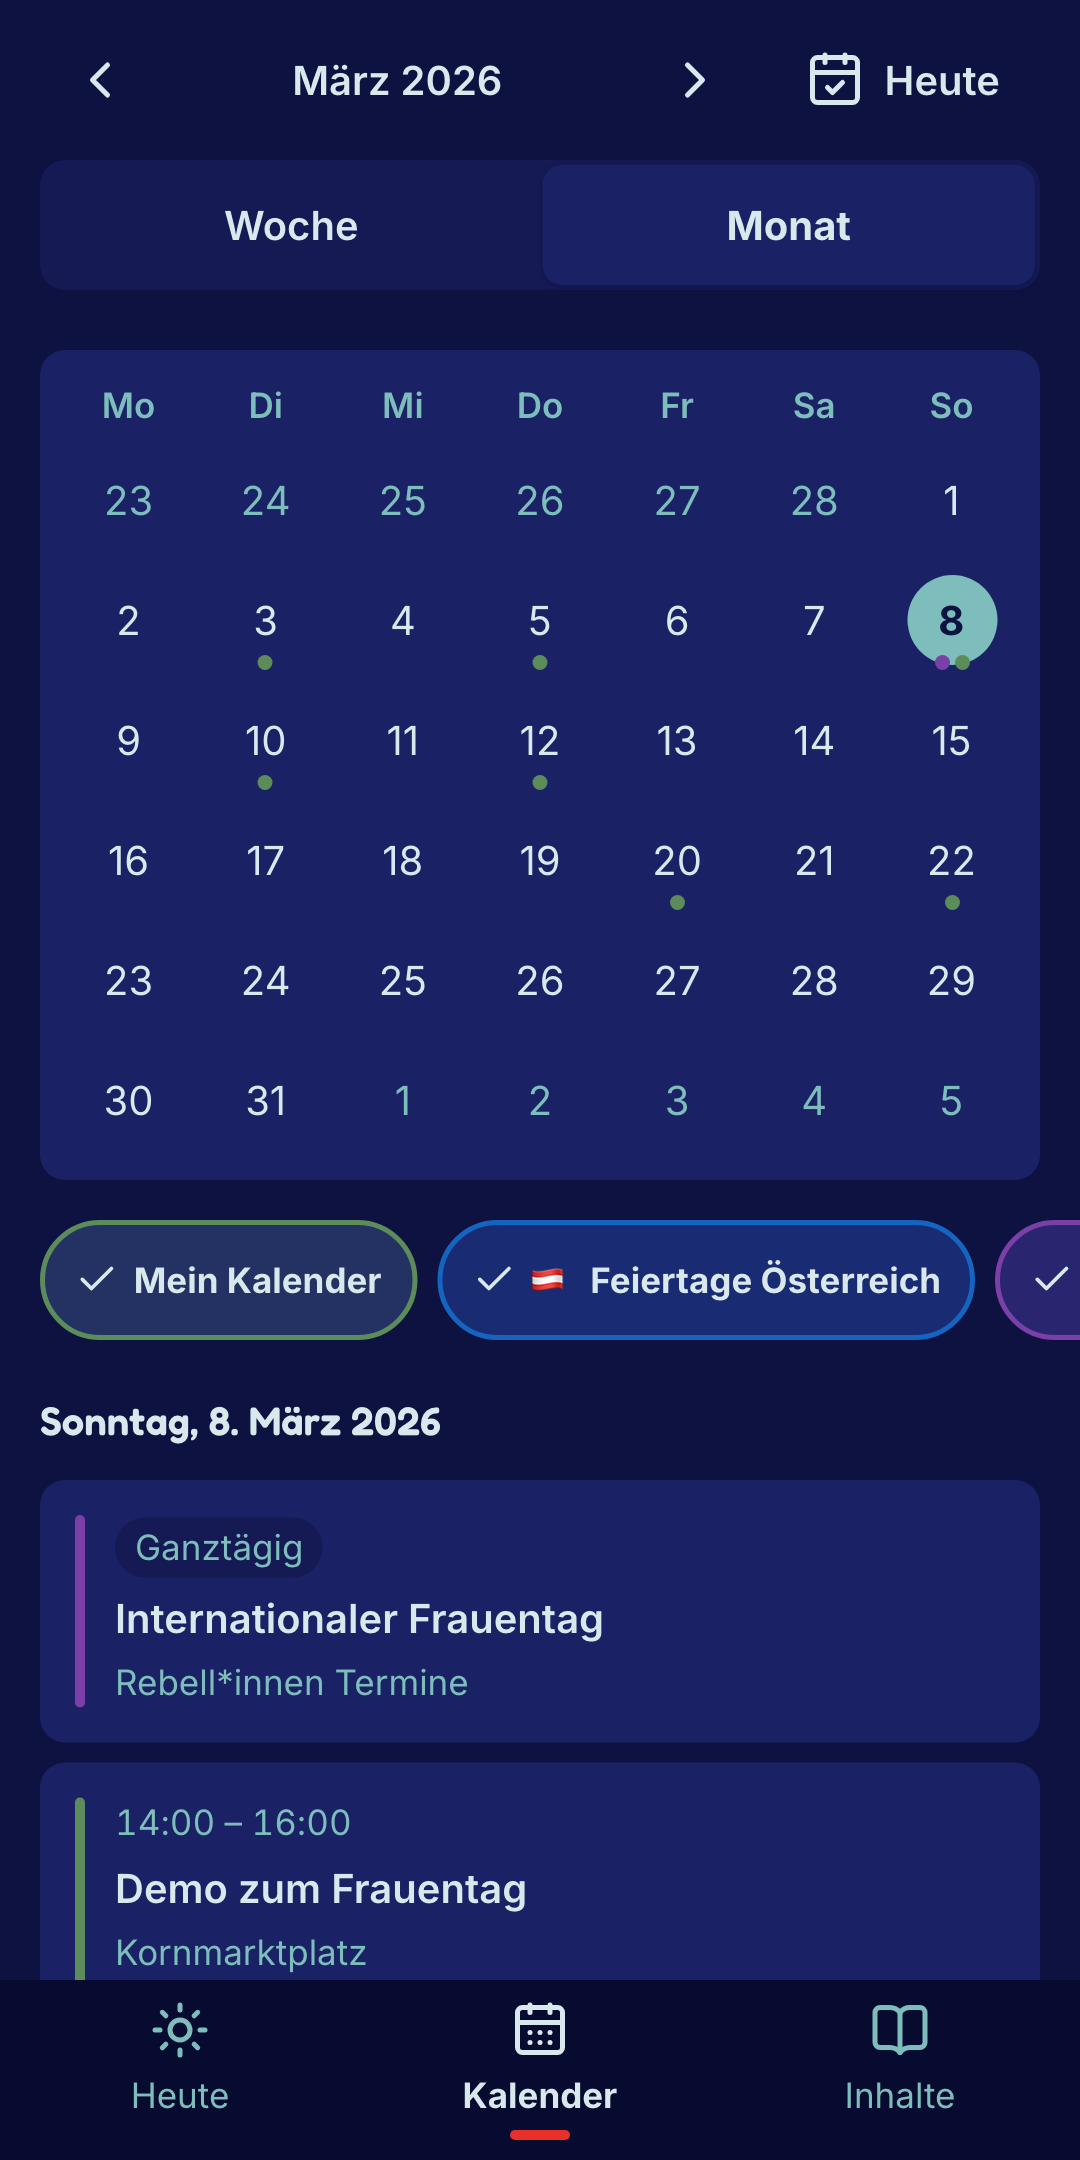
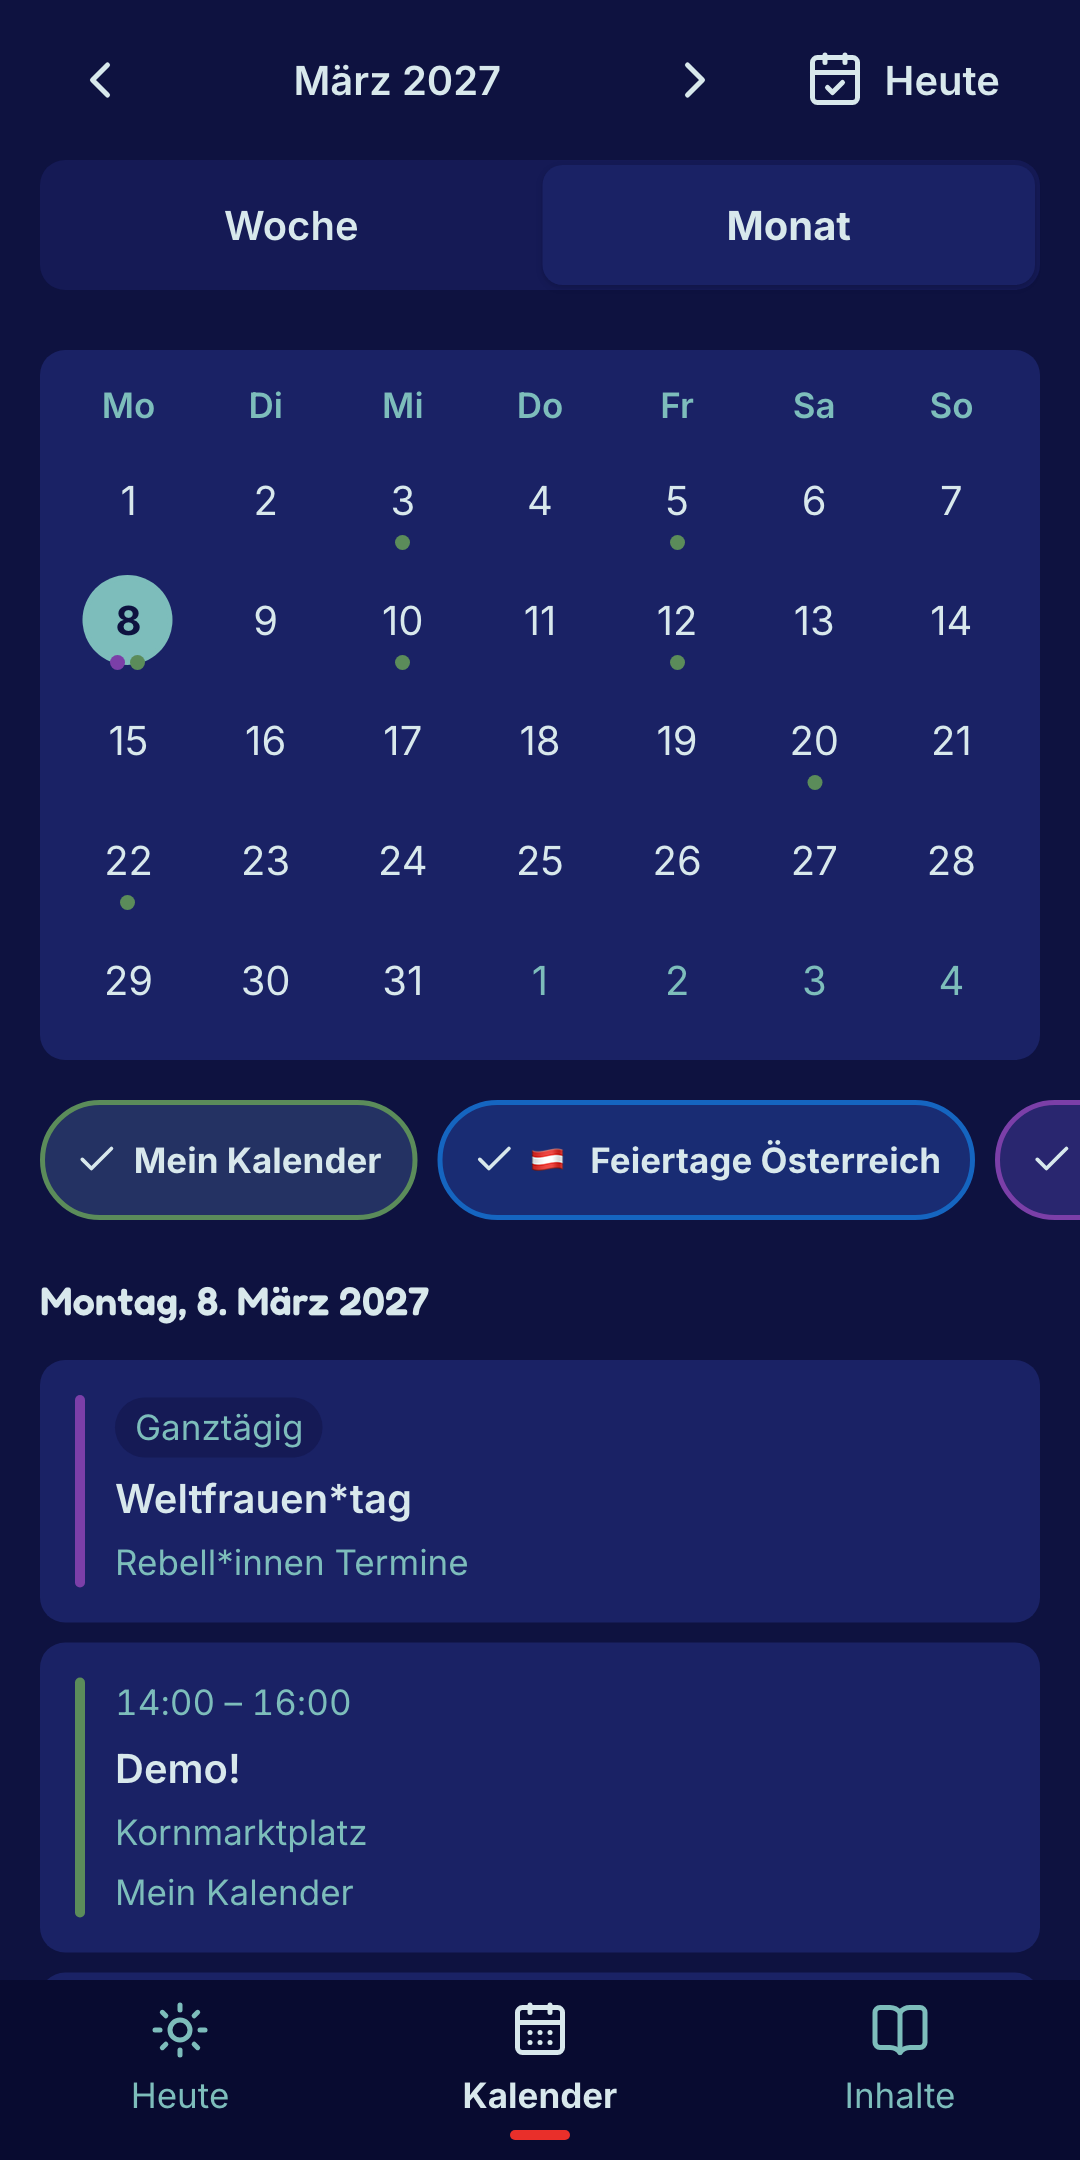
chore(store): date the screenshots 2027 and rename the demo appointments
Verein Amazone asked for screenshots that do not lie in the past already,
and for the appointments to read „Weltfrauen*tag“ and „Demo!“. They also
show the red tab indicator now.

diff --git a/apps/app/scripts/store-screenshots/store-screenshots.spec.ts b/apps/app/scripts/store-screenshots/store-screenshots.spec.ts
@@ -14,7 +14,7 @@ import {
  * assets, rendered from the production web build (see
  * playwright.store.config.ts and docs/store-listing.md).
  *
- * Everything that would make two runs differ is pinned: the clock (a fixed Sunday, Weltfrauentag,
+ * Everything that would make two runs differ is pinned: the clock (a fixed day, Weltfrauentag,
  * so Heute's impulse is always the same one), the zone and locale, the demo data, and the fonts,
  * which the app bundles. Run it, look at every PNG, and commit them.
  */
@@ -46,9 +46,9 @@ const PLAY_IMAGES = join(ROOT, 'fastlane', 'metadata', 'android', 'de-DE', 'imag
  */
 const APP_STORE_ASSETS = join(ROOT, 'fastlane', 'app-store-assets');
 
-/** Sunday, 8 March 2026, 9:30 in Vienna. */
-const NOW = new Date('2026-03-08T09:30:00+01:00');
-const TODAY = '2026-03-08';
+/** Monday, 8 March 2027, 9:30 in Vienna. */
+const NOW = new Date('2027-03-08T09:30:00+01:00');
+const TODAY = '2027-03-08';
 
 /**
  * The content the screenshots show, as Verein Amazone chose it: a Rebell*in of today whose portrait
@@ -105,19 +105,19 @@ async function addAppointment(
   await expect(page).toHaveURL(/\/calendar\?day=/);
 }
 
-/** The demo data every screenshot shows: a believable Sunday in March. */
+/** The demo data every screenshot shows: a believable day in March. */
 async function seedDemoData(page: Page): Promise<void> {
   await seedAppCalendar(page, 'Mein Kalender');
   await seedOccurrence(page, {
     sourceType: 'ics',
-    title: 'Internationaler Frauentag',
+    title: 'Weltfrauen*tag',
     day: TODAY,
     calendarName: 'Rebell*innen Termine',
     color: '#7B3FA8',
   });
 
   await addAppointment(page, {
-    title: 'Demo zum Frauentag',
+    title: 'Demo!',
     day: TODAY,
     start: '14:00',
     end: '16:00',
@@ -130,17 +130,17 @@ async function seedDemoData(page: Page): Promise<void> {
     end: '18:30',
   });
   for (const [title, day, start, end] of [
-    ['Chorprobe', '2026-03-03', '19:00', '21:00'],
-    ['Zahnarzt', '2026-03-05', '08:30', '09:00'],
-    ['Lesekreis', '2026-03-12', '19:00', '20:30'],
-    ['Konzert mit Jule', '2026-03-20', '20:00', '22:30'],
-    ['Oma besuchen', '2026-03-22', '15:00', '18:00'],
+    ['Chorprobe', '2027-03-03', '19:00', '21:00'],
+    ['Zahnarzt', '2027-03-05', '08:30', '09:00'],
+    ['Lesekreis', '2027-03-12', '19:00', '20:30'],
+    ['Konzert mit Jule', '2027-03-20', '20:00', '22:30'],
+    ['Oma besuchen', '2027-03-22', '15:00', '18:00'],
   ]) {
     await addAppointment(page, { title, day, start, end });
   }
   await addAppointment(page, {
     title: 'Workshop Rebell*innen Kalender',
-    day: '2026-03-10',
+    day: '2027-03-10',
     start: '16:00',
     end: '18:00',
     location: 'Verein Amazone',
@@ -210,7 +210,7 @@ test.describe('store screenshots', () => {
       {
         name: 'kalender',
         path: `/calendar?day=${TODAY}`,
-        ready: (p) => expect(p.getByRole('link', { name: /Demo zum Frauentag/ })).toBeVisible(),
+        ready: (p) => expect(p.getByRole('link', { name: /Demo!/ })).toBeVisible(),
       },
       {
         name: 'rebellin',
@@ -239,7 +239,7 @@ test.describe('store screenshots', () => {
         path: `/calendar?view=month&day=${TODAY}`,
         // The month in another colour theme, to show that the app can look different.
         ready: async (p) => {
-          await expect(p.getByText('März 2026').first()).toBeVisible();
+          await expect(p.getByText('März 2027').first()).toBeVisible();
           await expect(p.locator('html')).toHaveAttribute('data-theme', 'nacht');
         },
         before: async (p) => {
